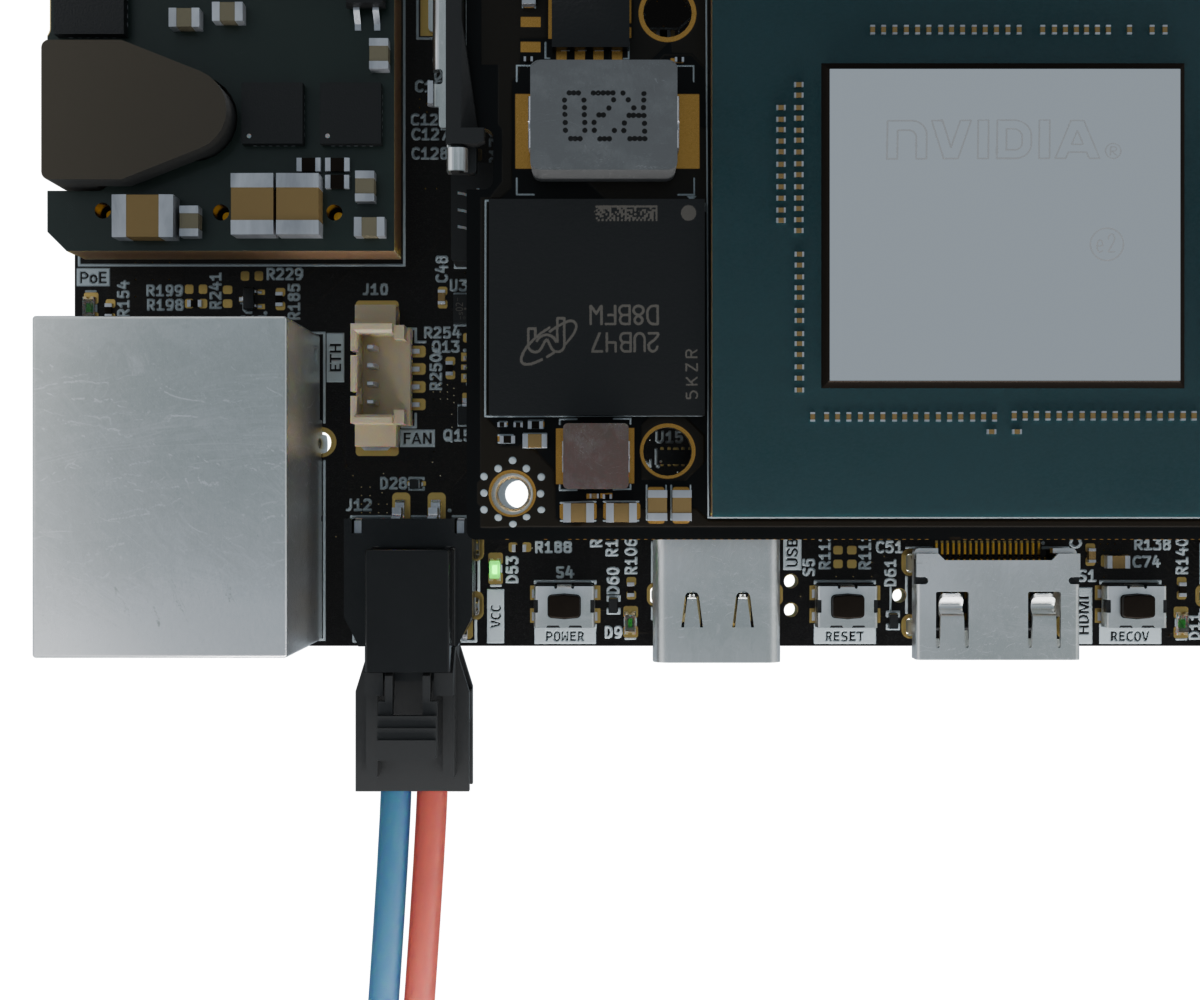
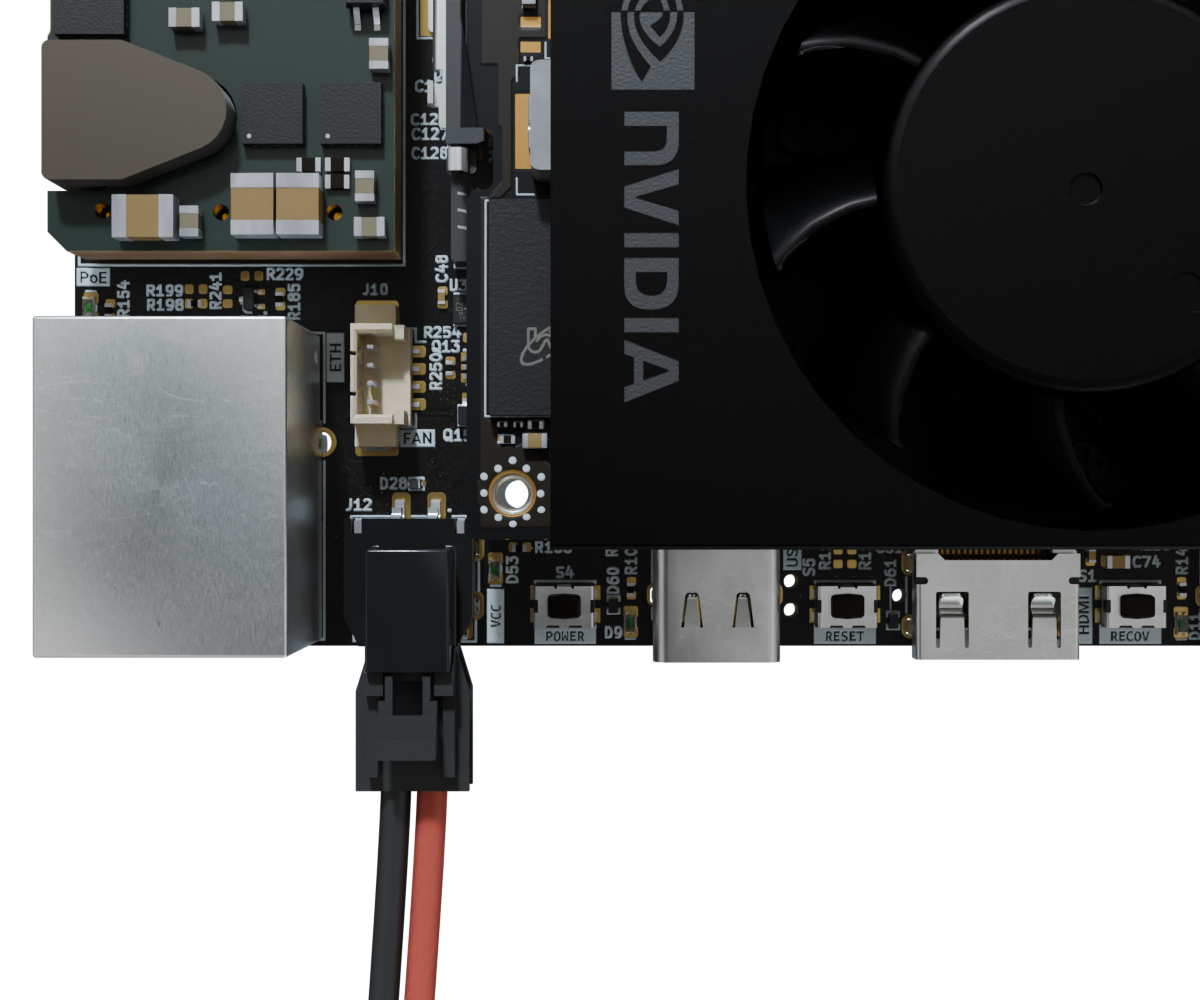
Updated renders and altered description of power supply connection

diff --git a/doc/source/getting_started.md b/doc/source/getting_started.md
@@ -74,13 +74,16 @@ You need to fasten the SSD with one metric M2.5 (5mm long) bolt to ensure reliab
 Prepare a power cable assembly terminated with a Molex Nano Fit plug that fits the `J12` DC connector located on the Jetson Orin Baseboard.
 Please verify the polarity and voltage you use for powering the board.
 Apply power to the board.
-That should cause the `D53` power indicator LED to light up.
+That should cause the VCC (`D53`) power indicator LED to light up.
 
 :::{figure-md}
 ![](img/job_power_connection.png)
 
-Jetson Orin Baseboard DC power connection with polarity marking (red: vcc, blue: gnd). This 3D render does not show the cooling module that should be attached to the Jetson SoM
+Jetson Orin Baseboard DC power connection with polarity marking (red: vcc, black: gnd).
 :::
+
+Alternatively you can use a PoE injector or PoE-capable Ethernet switch and power-up the board via Ethernet connector (`J6`).
+This should cause the PoE indicator LED (``D15``) and VCC (`D53`) power indicator LED to light up. 
 
 ### 5. Connect the debug console
 
@@ -97,7 +100,7 @@ Now you are ready to prepare the BSP flashing image and initialize the flashing 
 :::{figure-md}
 ![](img/job_ready_for_flashing.png)
 
-Jetson Orin Baseboard with USB and power connections required for flashing. This 3D render does not show the cooling module that should be attached to the Jetson SoM
+Jetson Orin Baseboard with USB and power connections required for flashing.
 :::
 
 ## Flash the BSP image
